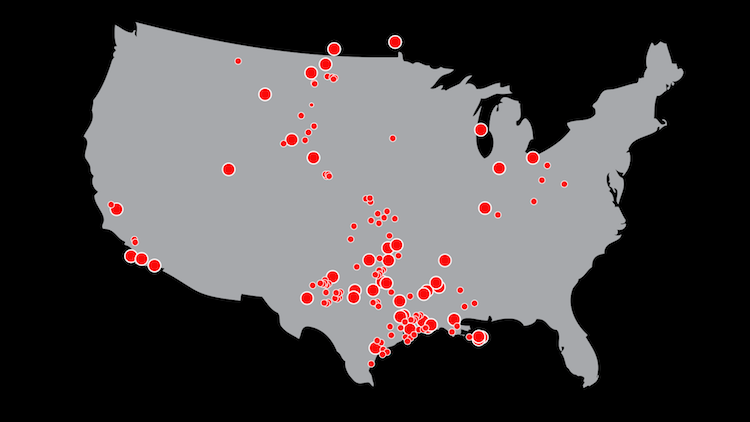
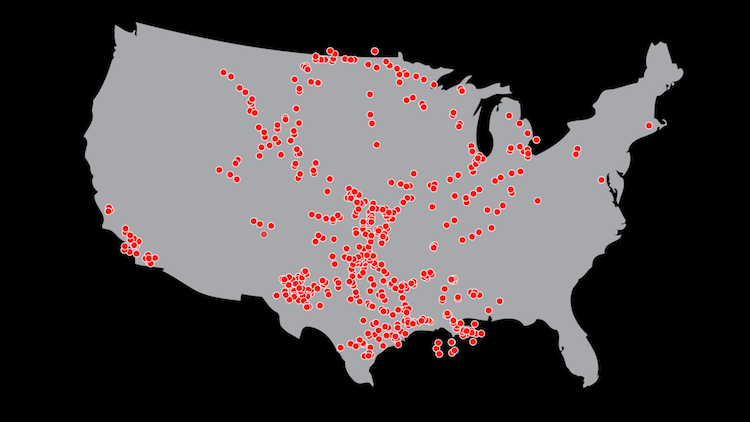
update various stuff

diff --git a/bayoubridge/app/assets/builds/app.bundle.js b/bayoubridge/app/assets/builds/app.bundle.js
@@ -1428,7 +1428,7 @@ svc.videoUrls = [
   {
     url: "us_etp_pipelines",
     caption:
-      "The Bayou Bridge Pipeline would carry oil transported via the Dakota Access pipeline to refineries and international export terminals in Louisiana.",
+      "The Bayou Bridge Pipeline would carry oil transported via the Dakota Access Pipeline to refineries and international export terminals in Louisiana. They are both projects that would be completed by Energy Transfer Partners.",
     mapId: "pipeline",
     loop: false,
     title: "Connection of Dakota Access Pipeline and Bayou Bridge Pipeline",
@@ -1441,7 +1441,7 @@ svc.videoUrls = [
   {
     url: "us_all_pipelines",
     caption:
-      "There are <a href='https://hip.phmsa.dot.gov/analyticsSOAP/saw.dll?Portalpages'>73,000 miles</a> of <a href='http://www.pipeline101.org/where-are-pipelines-located'>pipelines crisscrossing the US</a> transporting crude oil.",
+      "Approximately 299,000 miles of onshore gas transmission pipelines and 171,000 miles of onshore hazardous liquid pipelines move natural gas, crude oil, and petroleum products throughout the U.S. every day. There are over 2.1 million miles of distribution pipelines in service today. <i>[Graphic source: American Energy Mapping]<hr> <ul><li style='color:red'>Crude Oil Pipelines</li><li style='color:yellow'>Natural Gas Pipelines</i></li></ul>",
     mapId: "pipeline",
     loop: false,
     title: "Map of US Pipelines",
@@ -1453,7 +1453,7 @@ svc.videoUrls = [
   {
     url: "us_spills_2010",
     caption:
-      "Nearly 9 million gallons of crude oil have spilled from pipelines in the United States since 2010. <i>[Source: Pipeline and Hazardous Materials Safety Administration]</i>",
+      "In a span of 5 years, More than 7 million gallons of crude oil have spilled from pipelines in the United States. There have been more than 3,300 incidents of crude oil and liquefied natural gas leaks or ruptures.  <i>[Source: Pipeline and Hazardous Materials Safety Administration; High Country News with data from Pipeline and Hazardous Materials Safety Administration]</i>",
     title: "Pipeline Spills Since 2010",
     loop: false,
     mapId: "pipeline",
@@ -1465,7 +1465,7 @@ svc.videoUrls = [
   {
     url: "us_etp_spills",
     caption:
-      "Energy Transfer Partners and its subsidiary Sunoco have filed 69 accidents over the past two years. An average of 2.8 spills every month. <i>[Source: National Response Center]</i>",
+      "Energy Transfer Partners and its subsidiary Sunoco have filed 69 accidents over the past two years. An average of 2.8 spills every month. They have had more accidents than any other pipeline company this decade. <i>[Source: Pipeline and Hazardous Materials Safety Administration; LA Bucket Brigade with data from The National Response Center]</i>",
     mapId: "pipeline",
     loop: true,
     title: "Energy Transfer Partners Spills in 2015-2016",
@@ -1477,7 +1477,7 @@ svc.videoUrls = [
   {
     url: "la_pipeline_path_tb",
     caption:
-      "The Bayou Bridge pipeline would cross 11 parishes, 700 bodies of water, and impact over 600 acres of wetlands. The pipeline route runs through Bayou Lafourche, the drinking water supply for at least 300,000 people.",
+      "The 162 mile Bayou Bridge pipeline would cross 11 parishes, 700 bodies of water, and impact over 600 acres of wetlands. The pipeline route runs through Bayou Lafourche, the drinking water supply for at least 300,000 people.",
     mapId: "louisiana",
     loop: false,
     default: true,
@@ -1493,7 +1493,7 @@ svc.videoUrls = [
     mapId: "louisiana",
     loop: false,
     caption:
-      "Louisiana currently has more than 50,000 miles of pipelines. <i>[Source: Department of Natural Resources]</i>",
+      "Louisiana currently has more than 50,000 miles of pipelines. This integrated system of pipelines criss-cross every major highway, railroad and navigable waterway in Louisiana. <i>[Source: Department of Natural Resources]</i>",
     title: "Louisiana Pipelines",
     coords: {
       x: 6,
@@ -1503,7 +1503,7 @@ svc.videoUrls = [
   {
     url: "la_coastal_erosion_tb",
     caption:
-      "Louisiana has lost just under 1,900 square miles of land between 1932 and 2000 (equivalent to the state of Delaware). <i>[Source: US Geological Survey]</i>",
+      "Louisiana has lost just under 1,900 square miles of land between 1932 and 2000 (equivalent to the state of Delaware). <i>[Source: US Geological Survey; Louisiana Mid Continent Oil & Gas Association]</i>",
     mapId: "louisiana",
     title: "Louisiana's Current Inhabitable Land",
     loop: false,

diff --git a/bayoubridge/app/components/gallery/gallerySvc.js b/bayoubridge/app/components/gallery/gallerySvc.js
@@ -5,7 +5,7 @@ svc.videoUrls = [
   {
     url: "us_etp_pipelines",
     caption:
-      "The Bayou Bridge Pipeline would carry oil transported via the Dakota Access pipeline to refineries and international export terminals in Louisiana.",
+      "The Bayou Bridge Pipeline would carry oil transported via the Dakota Access Pipeline to refineries and international export terminals in Louisiana. They are both projects that would be completed by Energy Transfer Partners.",
     mapId: "pipeline",
     loop: false,
     title: "Connection of Dakota Access Pipeline and Bayou Bridge Pipeline",
@@ -18,7 +18,7 @@ svc.videoUrls = [
   {
     url: "us_all_pipelines",
     caption:
-      "There are <a href='https://hip.phmsa.dot.gov/analyticsSOAP/saw.dll?Portalpages'>73,000 miles</a> of <a href='http://www.pipeline101.org/where-are-pipelines-located'>pipelines crisscrossing the US</a> transporting crude oil.",
+      "Approximately 299,000 miles of onshore gas transmission pipelines and 171,000 miles of onshore hazardous liquid pipelines move natural gas, crude oil, and petroleum products throughout the U.S. every day. There are over 2.1 million miles of distribution pipelines in service today. <i>[Graphic source: American Energy Mapping]<hr> <ul><li style='color:red'>Crude Oil Pipelines</li><li style='color:yellow'>Natural Gas Pipelines</i></li></ul>",
     mapId: "pipeline",
     loop: false,
     title: "Map of US Pipelines",
@@ -30,7 +30,7 @@ svc.videoUrls = [
   {
     url: "us_spills_2010",
     caption:
-      "Nearly 9 million gallons of crude oil have spilled from pipelines in the United States since 2010. <i>[Source: Pipeline and Hazardous Materials Safety Administration]</i>",
+      "In a span of 5 years, More than 7 million gallons of crude oil have spilled from pipelines in the United States. There have been more than 3,300 incidents of crude oil and liquefied natural gas leaks or ruptures.  <i>[Source: Pipeline and Hazardous Materials Safety Administration; High Country News with data from Pipeline and Hazardous Materials Safety Administration]</i>",
     title: "Pipeline Spills Since 2010",
     loop: false,
     mapId: "pipeline",
@@ -42,7 +42,7 @@ svc.videoUrls = [
   {
     url: "us_etp_spills",
     caption:
-      "Energy Transfer Partners and its subsidiary Sunoco have filed 69 accidents over the past two years. An average of 2.8 spills every month. <i>[Source: National Response Center]</i>",
+      "Energy Transfer Partners and its subsidiary Sunoco have filed 69 accidents over the past two years. An average of 2.8 spills every month. They have had more accidents than any other pipeline company this decade. <i>[Source: Pipeline and Hazardous Materials Safety Administration; LA Bucket Brigade with data from The National Response Center]</i>",
     mapId: "pipeline",
     loop: true,
     title: "Energy Transfer Partners Spills in 2015-2016",
@@ -54,7 +54,7 @@ svc.videoUrls = [
   {
     url: "la_pipeline_path_tb",
     caption:
-      "The Bayou Bridge pipeline would cross 11 parishes, 700 bodies of water, and impact over 600 acres of wetlands. The pipeline route runs through Bayou Lafourche, the drinking water supply for at least 300,000 people.",
+      "The 162 mile Bayou Bridge pipeline would cross 11 parishes, 700 bodies of water, and impact over 600 acres of wetlands. The pipeline route runs through Bayou Lafourche, the drinking water supply for at least 300,000 people.",
     mapId: "louisiana",
     loop: false,
     default: true,
@@ -70,7 +70,7 @@ svc.videoUrls = [
     mapId: "louisiana",
     loop: false,
     caption:
-      "Louisiana currently has more than 50,000 miles of pipelines. <i>[Source: Department of Natural Resources]</i>",
+      "Louisiana currently has more than 50,000 miles of pipelines. This integrated system of pipelines criss-cross every major highway, railroad and navigable waterway in Louisiana. <i>[Source: Department of Natural Resources]</i>",
     title: "Louisiana Pipelines",
     coords: {
       x: 6,
@@ -80,7 +80,7 @@ svc.videoUrls = [
   {
     url: "la_coastal_erosion_tb",
     caption:
-      "Louisiana has lost just under 1,900 square miles of land between 1932 and 2000 (equivalent to the state of Delaware). <i>[Source: US Geological Survey]</i>",
+      "Louisiana has lost just under 1,900 square miles of land between 1932 and 2000 (equivalent to the state of Delaware). <i>[Source: US Geological Survey; Louisiana Mid Continent Oil & Gas Association]</i>",
     mapId: "louisiana",
     title: "Louisiana's Current Inhabitable Land",
     loop: false,

diff --git a/bayoubridge/index.html b/bayoubridge/index.html
@@ -27,9 +27,9 @@
       <div class="fp-tableCell">
       <div style="background-image: url(app/assets/img/titlecover.png);" data-src="app/assets/img/titlecover.png" class="video-pane__background-still mobile"></div>
       <video id="introVid" class="coverVideo desktop" loop muted data-autoplay style="top=-20"><!--poster="app/assets/img/titlecover.png"-->
-        <source src="https://s3.amazonaws.com/fireriver/pipeline_flyover.webm" type="video/webm">
+        <source src="https://s3.amazonaws.com/fireriver/pipeline_flyover_new.webm" type="video/webm">
         <source src="https://s3.amazonaws.com/fireriver/pipeline_flyover.mp4" type="video/mp4">
-        <source src="https://s3.amazonaws.com/fireriver/pipeline_flyover.ogv" type="video/ogg">
+        <source src="https://s3.amazonaws.com/fireriver/pipeline_flyover_new.ogv" type="video/ogg">
   		</video>
         <div class="title-wrapper">
           <img src="app/assets/img/homepageicon.png" width="70px"/>
